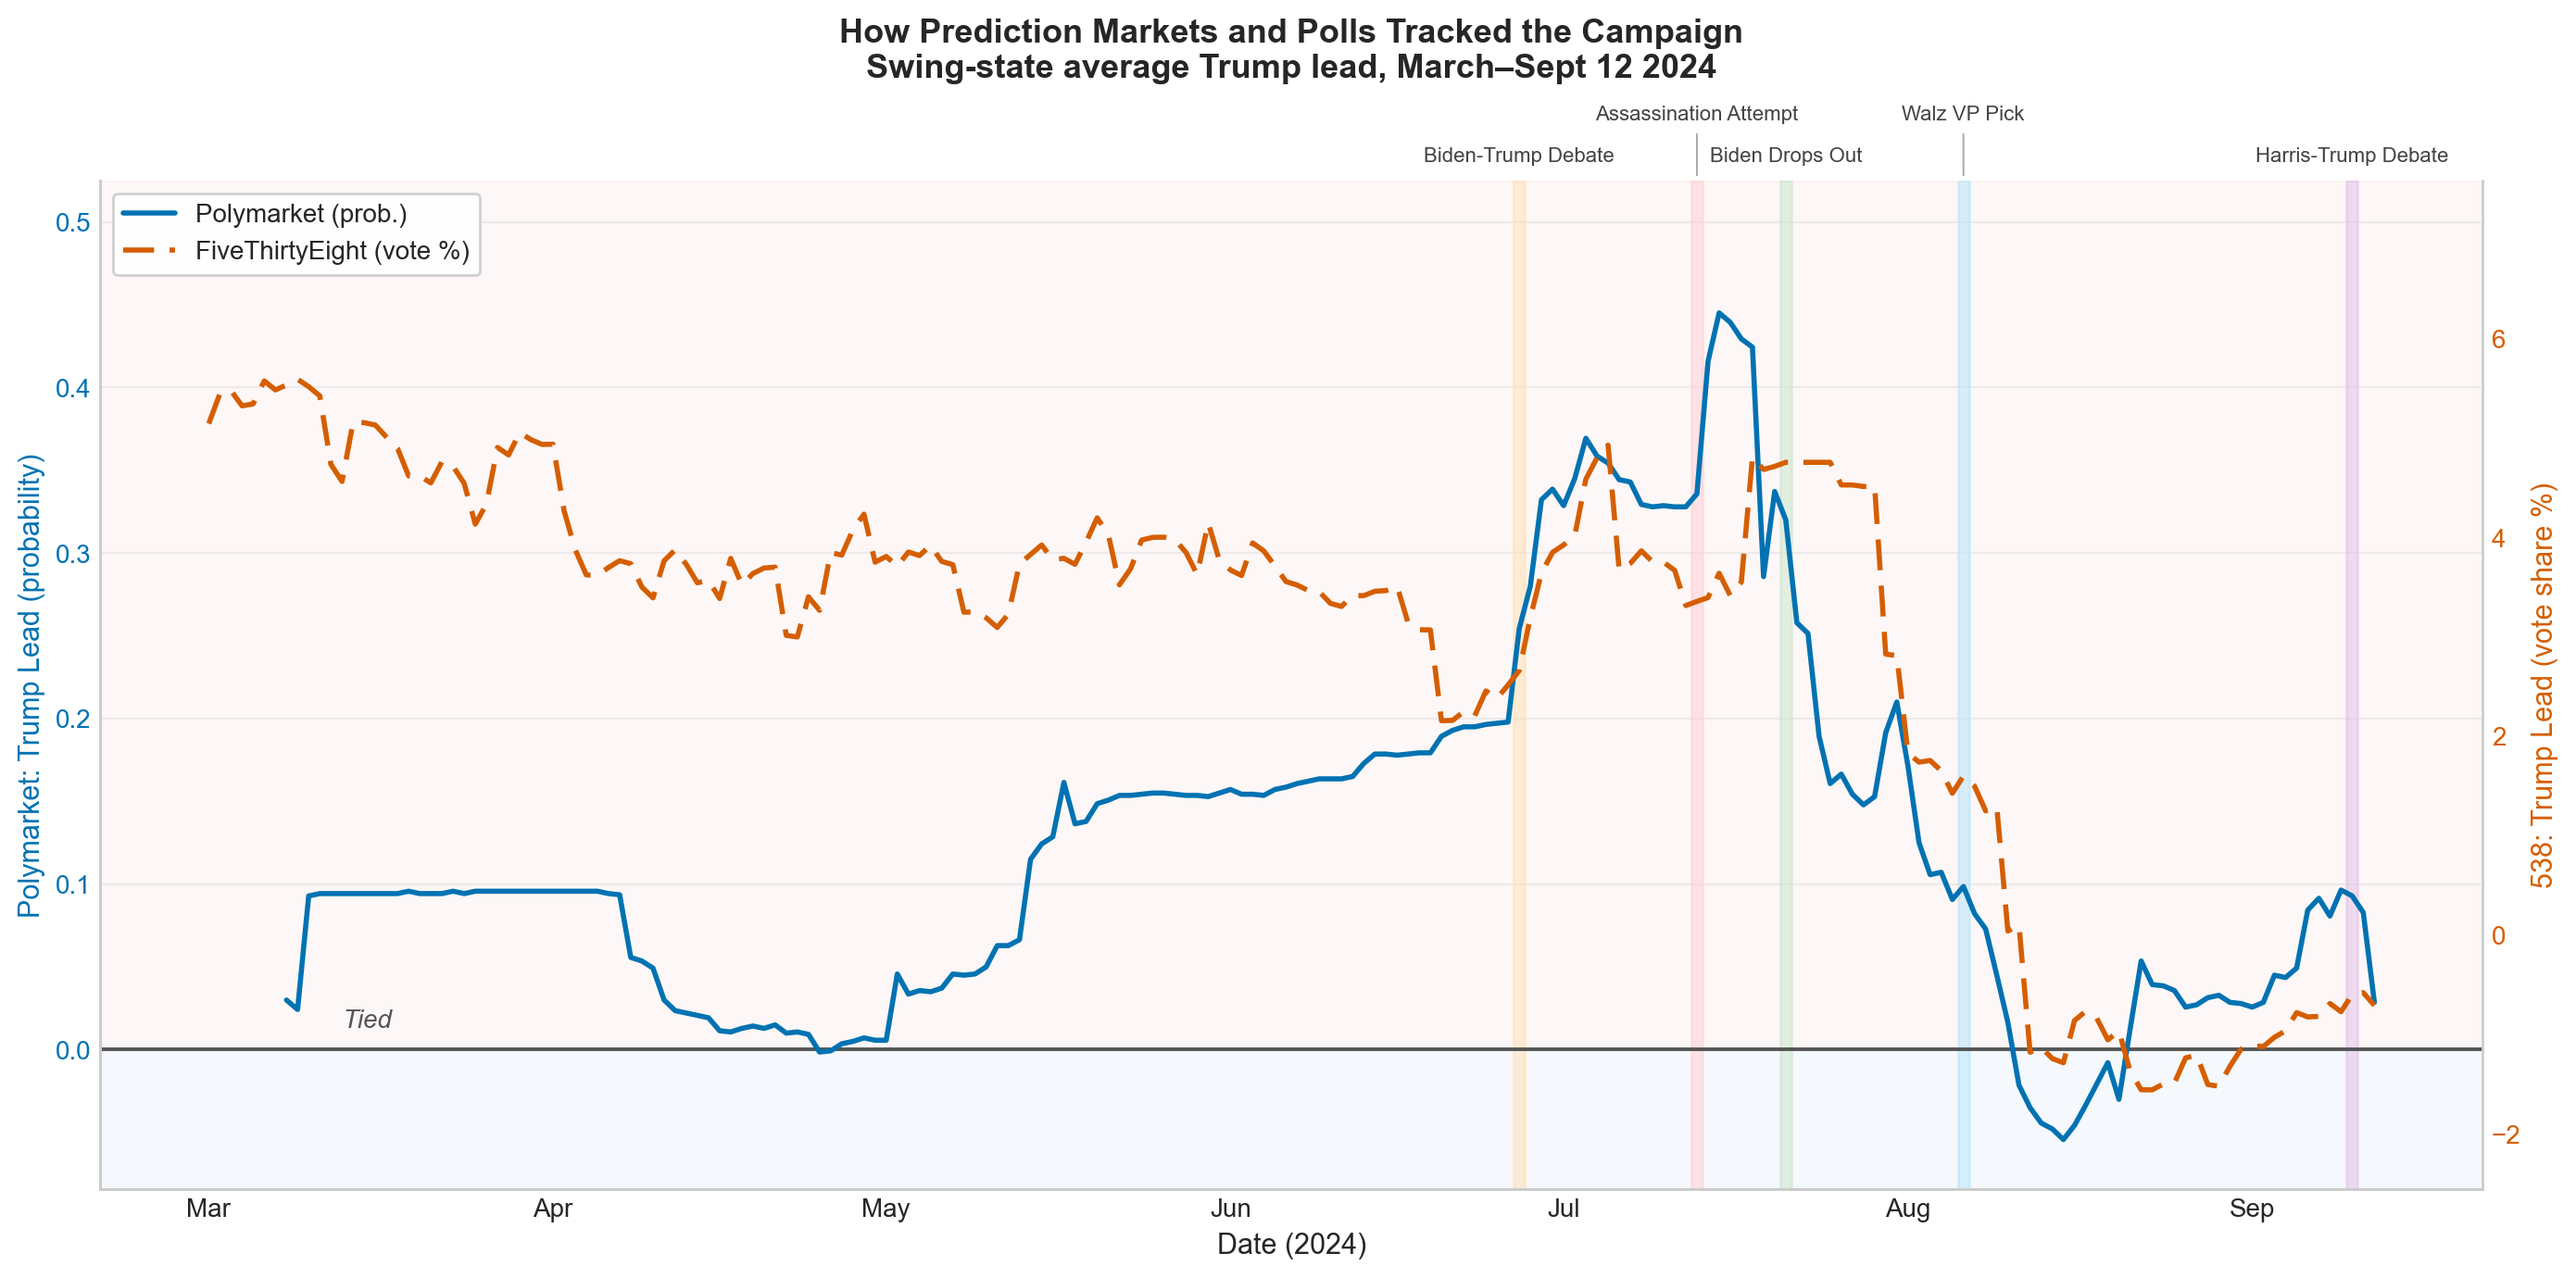
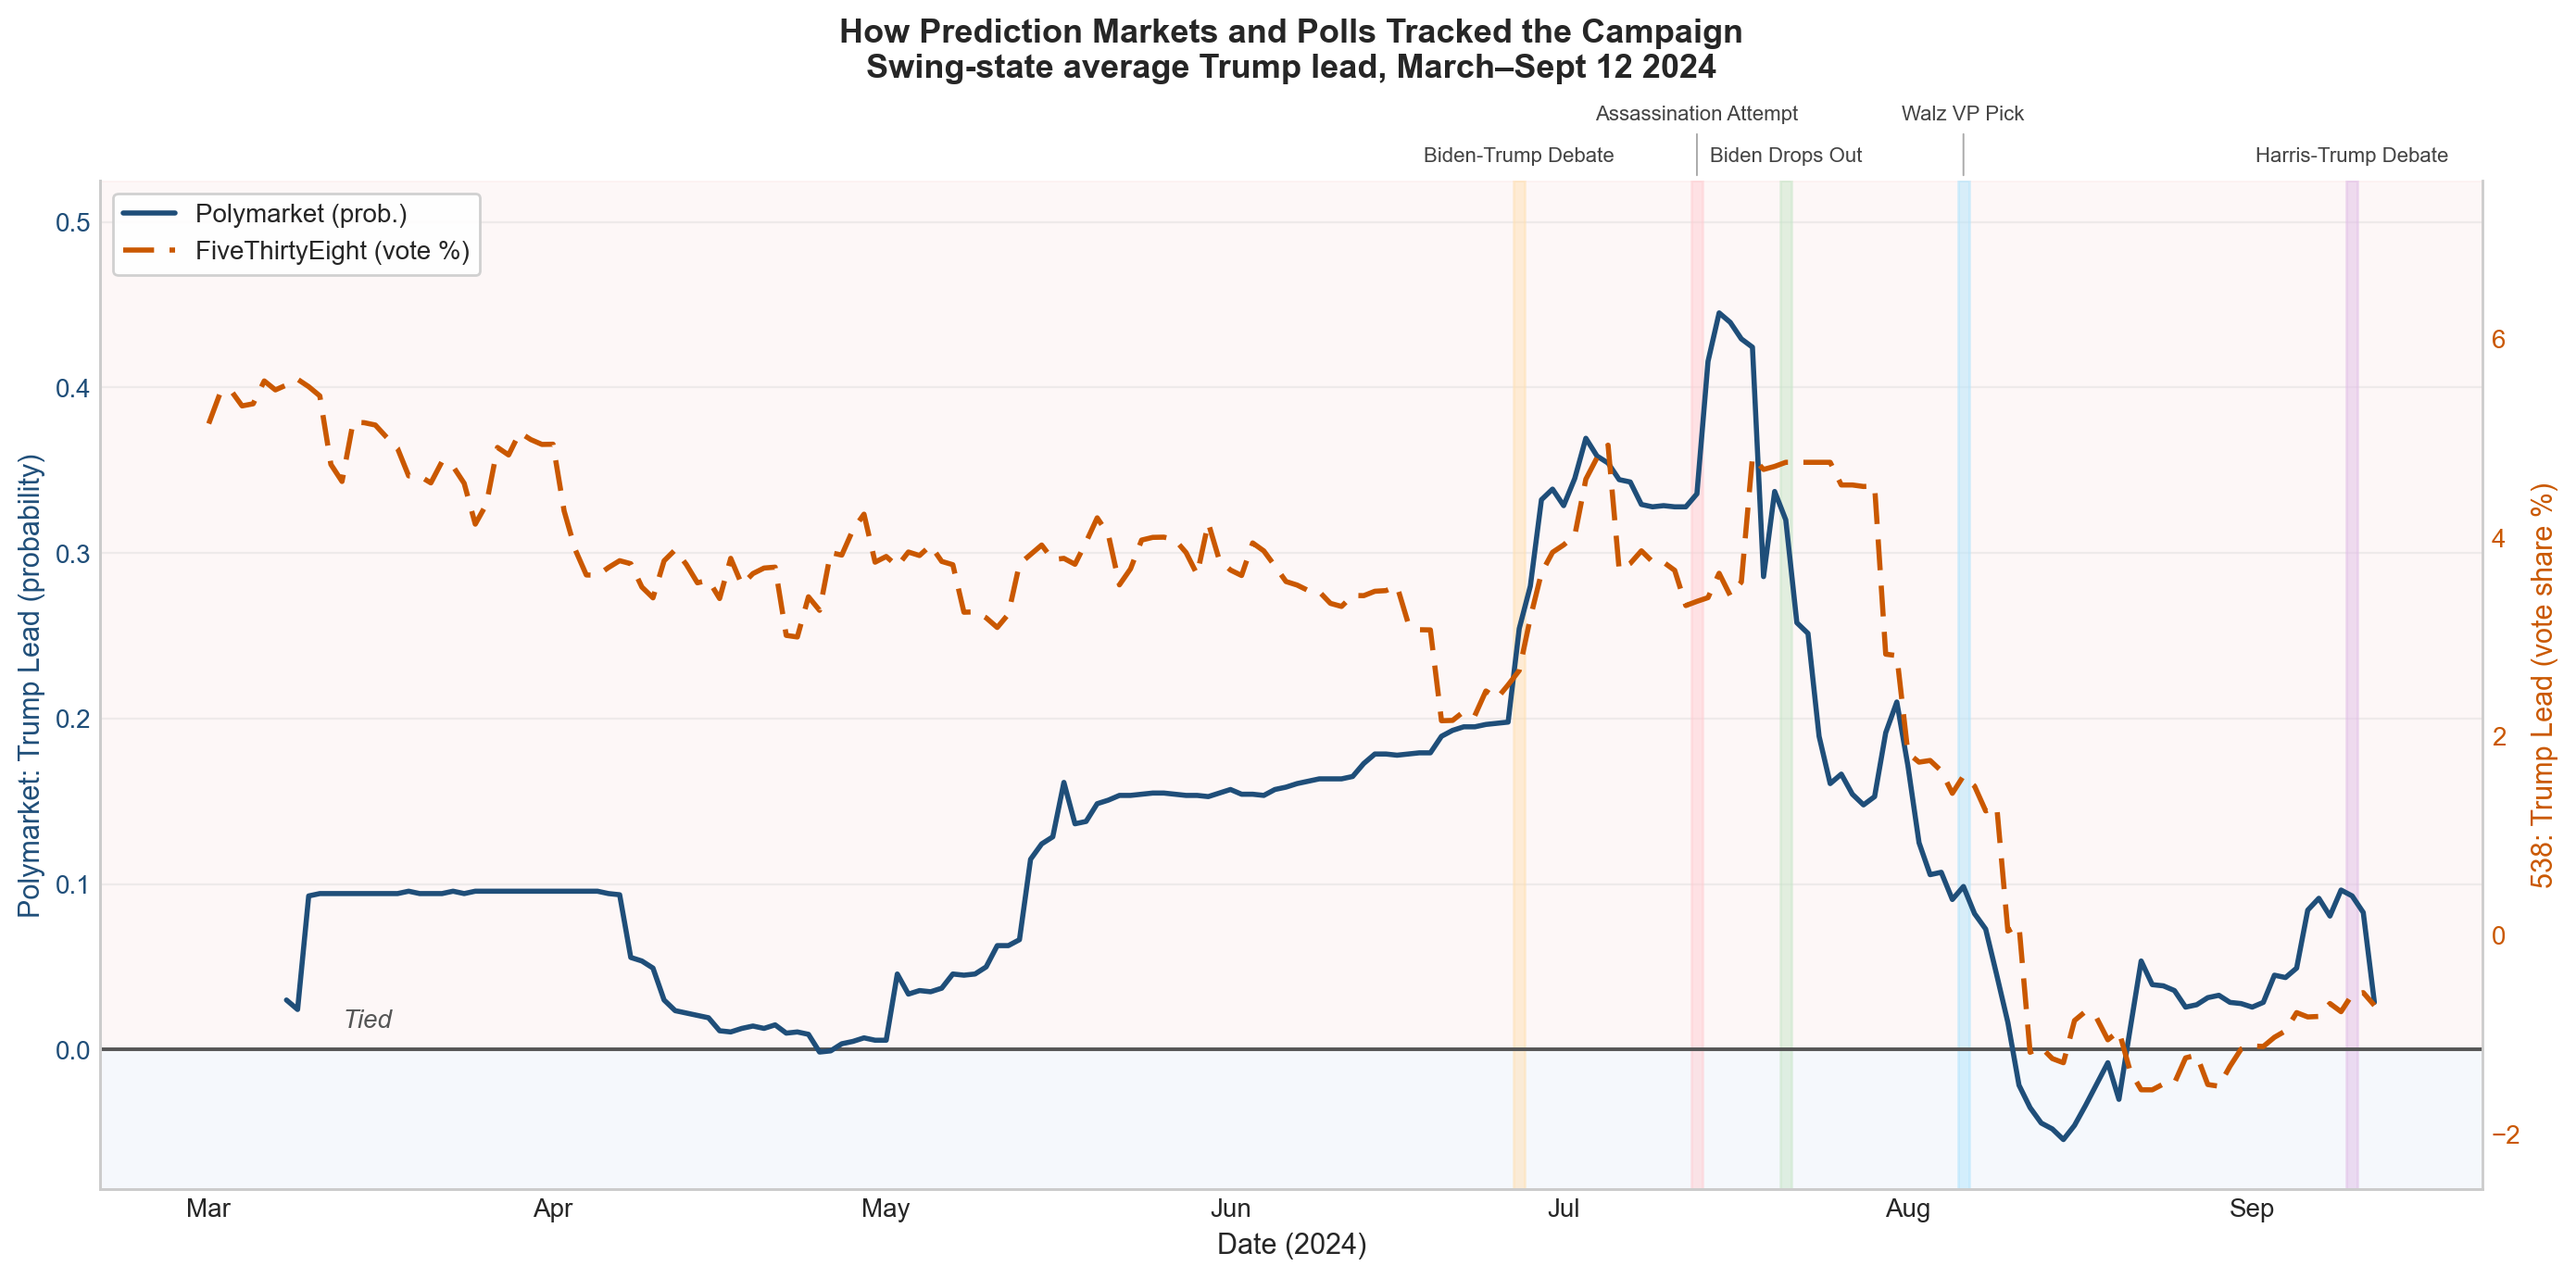
inital dropout response figure

diff --git a/src/visualize/event_plots.py b/src/visualize/event_plots.py
@@ -2,9 +2,10 @@
 Visualize event response analysis: how Polymarket and FiveThirtyEight
 reacted to major 2024 campaign events.
 
-Generates two plots:
+Generates three plots:
     1. Event timeline — full March-Sept 12 with event bands
     2. Reaction scoreboard — grouped horizontal bars per event
+    3. Indexed event study — small multiples showing response lag per event
 
 Run from project root:
     python -m src.visualize.event_plots
@@ -28,6 +29,8 @@ from src.analysis.events.event_response import (
     load_data,
     compute_swing_average,
     compute_538_swing_timeseries,
+    compute_raw_indexed_window,
+    detect_price_in_day,
     build_reaction_summary,
 )
 
@@ -36,8 +39,8 @@ from src.analysis.events.event_response import (
 # ---------------------------------------------------------------------------
 FIGURES_DIR = Path(_project_root) / "figures" / "events"
 
-CLR_PM = "#0072B2"
-CLR_538 = "#D55E00"
+CLR_PM = "#1f4e79"
+CLR_538 = "#ca5800"
 CLR_CORRECT = "#2E8B57"
 CLR_WRONG = "#C53030"
 
@@ -252,6 +255,165 @@ def plot_reaction_scoreboard(summary):
 
 
 # ---------------------------------------------------------------------------
+# Plot 3: Indexed Event Study (small multiples)
+# ---------------------------------------------------------------------------
+def _align_dual_axes(ax_left, ax_right):
+    """Force y=0 to the same vertical pixel on both axes.
+
+    Computes the union of both y-ranges and sets symmetric limits
+    so zero aligns perfectly.
+    """
+    lo_l, hi_l = ax_left.get_ylim()
+    lo_r, hi_r = ax_right.get_ylim()
+
+    # Fraction of total range that is below zero, for each axis
+    frac_l = abs(lo_l) / (abs(lo_l) + abs(hi_l)) if (abs(lo_l) + abs(hi_l)) else 0.5
+    frac_r = abs(lo_r) / (abs(lo_r) + abs(hi_r)) if (abs(lo_r) + abs(hi_r)) else 0.5
+
+    # Use the larger fraction so neither axis gets clipped
+    frac = max(frac_l, frac_r)
+
+    # Expand each axis so that frac of the range sits below zero
+    range_l = max(abs(lo_l) / frac, abs(hi_l) / (1 - frac)) if frac not in (0, 1) else abs(lo_l) + abs(hi_l)
+    range_r = max(abs(lo_r) / frac, abs(hi_r) / (1 - frac)) if frac not in (0, 1) else abs(lo_r) + abs(hi_r)
+
+    ax_left.set_ylim(-frac * range_l, (1 - frac) * range_l)
+    ax_right.set_ylim(-frac * range_r, (1 - frac) * range_r)
+
+
+def _draw_panel(ax_left, event, pm_swing, p538_swing, is_hero=False):
+    """Draw one event panel with dual y-axes, step PM, smooth 538."""
+    edate = event["date"]
+
+    # Start at Day -1 to remove pre-event noise
+    pm_win = compute_raw_indexed_window(pm_swing, edate, pre_days=1,
+                                         scale=100)
+    p538_win = compute_raw_indexed_window(p538_swing, edate, pre_days=1,
+                                           scale=1)
+
+    # --- Left axis: Polymarket (step line) ---
+    if not pm_win.empty:
+        ax_left.step(pm_win.index, pm_win.values, where="post",
+                     color=CLR_PM, linewidth=2.2, label="Polymarket",
+                     zorder=3)
+    ax_left.set_ylabel("Change in Win Prob. (% pts)", color=CLR_PM,
+                        fontsize=9 if not is_hero else 11)
+    ax_left.tick_params(axis="y", colors=CLR_PM, labelsize=9)
+
+    # --- Right axis: 538 (smooth line) ---
+    ax_right = ax_left.twinx()
+    if not p538_win.empty:
+        ax_right.plot(p538_win.index, p538_win.values,
+                      color=CLR_538, linewidth=2.5, label="538",
+                      zorder=3)
+    ax_right.set_ylabel("Change in Vote Share (% pts)", color=CLR_538,
+                         fontsize=9 if not is_hero else 11)
+    ax_right.tick_params(axis="y", colors=CLR_538, labelsize=9)
+
+    # --- Zero-align both axes ---
+    _align_dual_axes(ax_left, ax_right)
+
+    # --- Reference lines ---
+    ax_left.axvline(0, color="#888888", linewidth=1, linestyle="--",
+                    alpha=0.6, zorder=2)
+    ax_left.axhline(0, color="#888888", linewidth=0.8, linestyle="-",
+                    alpha=0.4, zorder=1)
+
+    # --- Title & direction badge ---
+    direction_labels = {
+        "pro-Trump": "+Trump",
+        "pro-Harris": "+Harris",
+        "neutral": "neutral",
+    }
+    badge = direction_labels.get(event["expected_direction"], "")
+    title = f"{event['name']}  ({badge})" if badge else event["name"]
+    ax_left.set_title(title, fontsize=12 if is_hero else 10,
+                       fontweight="bold")
+
+    # --- Hero-only annotations ---
+    if is_hero:
+        pm_lag = detect_price_in_day(pm_win)
+        p538_lag = detect_price_in_day(p538_win)
+
+        # Day 0 label
+        ax_left.annotate(
+            "Biden\nwithdraws", xy=(0, 0),
+            xytext=(0, 12), textcoords="offset points",
+            fontsize=9, ha="center", color="#555555",
+            fontstyle="italic", zorder=5,
+        )
+
+        # Lag bracket — positioned close to the data
+        if pm_lag is not None and p538_lag is not None and p538_lag > pm_lag:
+            # Place bracket at ~30% of PM's total drop (near the top of
+            # the data region, not floating in white space)
+            pm_day10 = pm_win.loc[10] if 10 in pm_win.index else 0
+            bracket_y = pm_day10 * 0.25
+            ax_left.annotate(
+                "", xy=(p538_lag, bracket_y),
+                xytext=(pm_lag, bracket_y),
+                arrowprops=dict(arrowstyle="<->", color="#333333",
+                                lw=1.5),
+                zorder=5,
+            )
+            mid = (pm_lag + p538_lag) / 2
+            lag_days = p538_lag - pm_lag
+            ax_left.text(mid, bracket_y,
+                          f"{lag_days}-day lag",
+                          ha="center", va="bottom", fontsize=10,
+                          fontweight="bold", color="#333333", zorder=5)
+
+    ax_left.set_xlabel("Days from Event")
+
+    _style_axis(ax_left)
+    ax_right.spines["top"].set_visible(False)
+    ax_right.grid(False)
+
+    return ax_right
+
+
+def plot_indexed_event_study(pm_swing, p538_swing):
+    """Single hero panel: market speed vs. poll lag for Biden dropout."""
+    from matplotlib.lines import Line2D
+
+    hero_event = next(e for e in EVENTS if e["name"] == "Biden Drops Out")
+
+    fig, ax = plt.subplots(figsize=(13, 7))
+    _draw_panel(ax, hero_event, pm_swing, p538_swing, is_hero=True)
+
+    fig.suptitle(
+        "Market Traders Spotted the Harris Surge\n"
+        "a Week Before Polls",
+        fontsize=15, fontweight="bold", y=1.03,
+    )
+
+    # --- Combined legend ---
+    legend_elements = [
+        Line2D([0], [0], color=CLR_PM, linewidth=2.2,
+               drawstyle="steps-post", label="Polymarket (win prob.)"),
+        Line2D([0], [0], color=CLR_538, linewidth=2.5,
+               label="FiveThirtyEight (vote share)"),
+    ]
+    fig.legend(handles=legend_elements, loc="upper center", ncol=2,
+               bbox_to_anchor=(0.5, -0.02), fontsize=11,
+               frameon=True, framealpha=0.9)
+
+    # --- Footnote ---
+    fig.text(0.5, -0.10,
+             "Left axis (blue): change in percentage-point win "
+             "probability.  Right axis (orange): change in "
+             "percentage-point vote share.\n"
+             "Both zeroed to Day \u22121 baseline.",
+             ha="center", va="top", fontsize=8, color="#777777",
+             fontstyle="italic")
+
+    path = FIGURES_DIR / "event_dropout_response.png"
+    fig.savefig(path, dpi=DPI, bbox_inches="tight")
+    plt.close(fig)
+    print(f"  Saved {path.name}")
+
+
+# ---------------------------------------------------------------------------
 # Main
 # ---------------------------------------------------------------------------
 def main():
@@ -271,8 +433,9 @@ def main():
     print("Generating plots...")
     plot_event_timeline(pm_swing, p538_swing)
     plot_reaction_scoreboard(summary)
+    plot_indexed_event_study(pm_swing, p538_swing)
 
-    print("Done — 2 plots saved to figures/events/")
+    print("Done — 3 plots saved to figures/events/")
 
 
 if __name__ == "__main__":

diff --git a/src/analysis/events/event_response.py b/src/analysis/events/event_response.py
@@ -204,6 +204,118 @@ def compute_event_reaction(swing_avg, event_date, pre_days=3, post_days=7):
     }
 
 
+def compute_indexed_window(swing_avg, event_date, pre_days=2, post_days=10,
+                           normalize=True):
+    """Zero-indexed window around an event for small-multiple plotting.
+
+    Parameters
+    ----------
+    swing_avg : pd.Series
+        Daily swing-state average trump_lead, indexed by date.
+    event_date : str or pd.Timestamp
+        Date of the event.
+    pre_days : int
+        Days before event to include (e.g. 2 → Day -2 through Day -1).
+    post_days : int
+        Days after event to include (e.g. 10 → Day 0 through Day +10).
+    normalize : bool
+        If True, divide by daily volatility (std of day-over-day diffs)
+        to produce z-scored changes.
+
+    Returns
+    -------
+    pd.Series indexed by integer day offset, values = change from Day -1.
+    Empty Series if Day -1 has no data.
+    """
+    event_date = pd.Timestamp(event_date)
+    start = event_date - pd.Timedelta(days=pre_days)
+    end = event_date + pd.Timedelta(days=post_days)
+
+    window = swing_avg[(swing_avg.index >= start) & (swing_avg.index <= end)]
+
+    # Convert to day offsets
+    day_offsets = (window.index - event_date).days
+    window = window.copy()
+    window.index = day_offsets
+
+    # Baseline = Day -1 value
+    if -1 not in window.index:
+        return pd.Series(dtype=float)
+
+    baseline = window.loc[-1]
+    window = window - baseline
+
+    if normalize:
+        daily_vol = swing_avg.diff().dropna().std()
+        if daily_vol > 0:
+            window = window / daily_vol
+
+    return window
+
+
+def compute_raw_indexed_window(swing_avg, event_date, pre_days=2,
+                                post_days=10, scale=1):
+    """Zero-indexed window in raw units (not z-scored).
+
+    Parameters
+    ----------
+    swing_avg : pd.Series
+        Daily swing-state average trump_lead, indexed by date.
+    event_date : str or pd.Timestamp
+        Date of the event.
+    pre_days, post_days : int
+        Window bounds around the event.
+    scale : float
+        Multiply values by this factor (e.g. 100 to convert
+        probability to percentage points).
+
+    Returns
+    -------
+    pd.Series indexed by integer day offset, values = change from
+    Day -1 in scaled units.  Empty Series if Day -1 has no data.
+    """
+    event_date = pd.Timestamp(event_date)
+    start = event_date - pd.Timedelta(days=pre_days)
+    end = event_date + pd.Timedelta(days=post_days)
+
+    window = swing_avg[(swing_avg.index >= start) & (swing_avg.index <= end)]
+    day_offsets = (window.index - event_date).days
+    window = window.copy()
+    window.index = day_offsets
+
+    if -1 not in window.index:
+        return pd.Series(dtype=float)
+
+    baseline = window.loc[-1]
+    window = (window - baseline) * scale
+    return window
+
+
+def detect_price_in_day(window, threshold_pct=0.90):
+    """Find the first day >= 0 where the source reaches *threshold_pct*
+    of its total move (Day 10 value minus 0, since already zeroed).
+
+    Returns the integer day offset, or None if never crossed.
+    """
+    if window.empty or 10 not in window.index:
+        return None
+
+    total_move = window.loc[10]
+    if total_move == 0:
+        return None
+
+    threshold = threshold_pct * total_move
+    post = window[window.index >= 0].sort_index()
+
+    for day, val in post.items():
+        if total_move > 0 and val >= threshold:
+            return int(day)
+        if total_move < 0 and val <= threshold:
+            return int(day)
+
+    return None
+
+
 def classify_direction(shift, expected):
     """Classify whether the shift matched the expected direction."""
     if np.isnan(shift):
